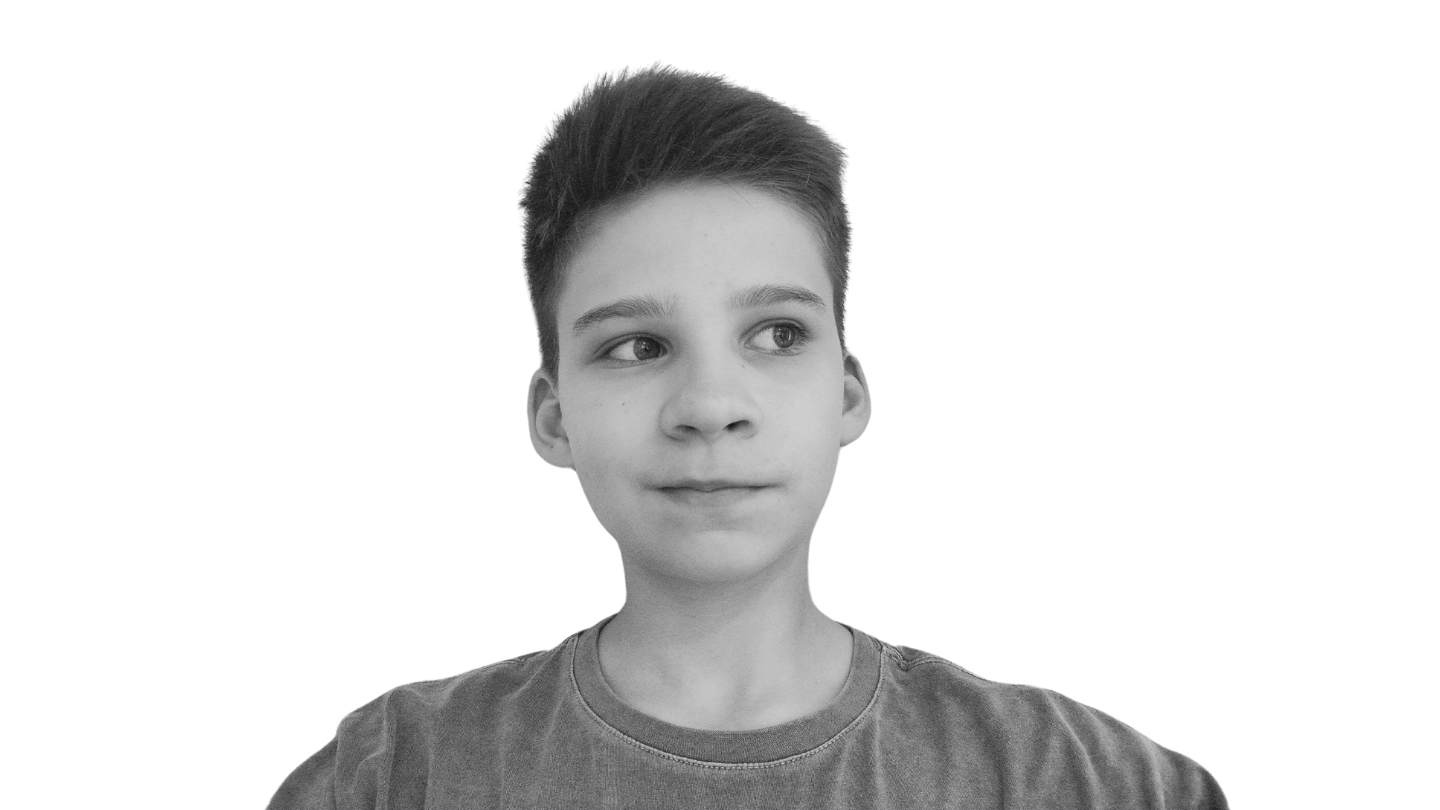
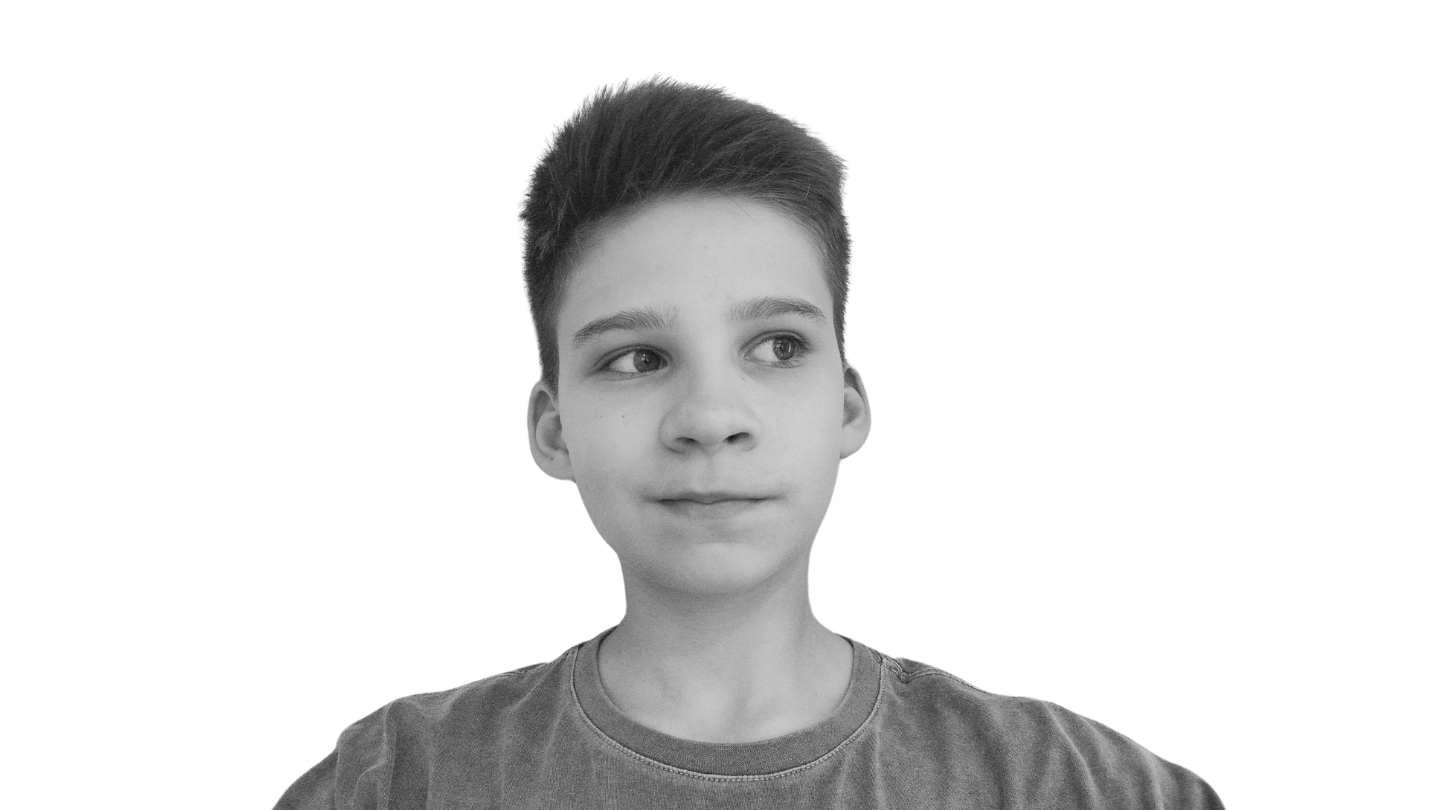
commit

diff --git a/index.html b/index.html
@@ -30,7 +30,7 @@
             <p class="home-p">Aperte aqui para saber minha história em desenvolvimento Front-end!</p>
         </div>
     </a>
-    <div id="div-imagem-ref"><img src="" alt="" id="img-imagem-ref"></div>
+    <div id="div-imagem-ref"><img src="imagens/pr1.png" alt="" id="img-imagem-ref"></div>
     <script src="script.js"></script>
     <script>
         window.alert('Página passando por MODIFICAÇÕES!')

diff --git a/styles.css b/styles.css
@@ -362,8 +362,8 @@ h1 {
 }
 #div-imagem-ref {
     margin: auto;
-    margin-top: 20%;
-    margin-right: 23.3%;
+    margin-top: 14.1%;
+    margin-right: 21%;
     margin-bottom: 0;
 }
 #img-imagem-ref {
